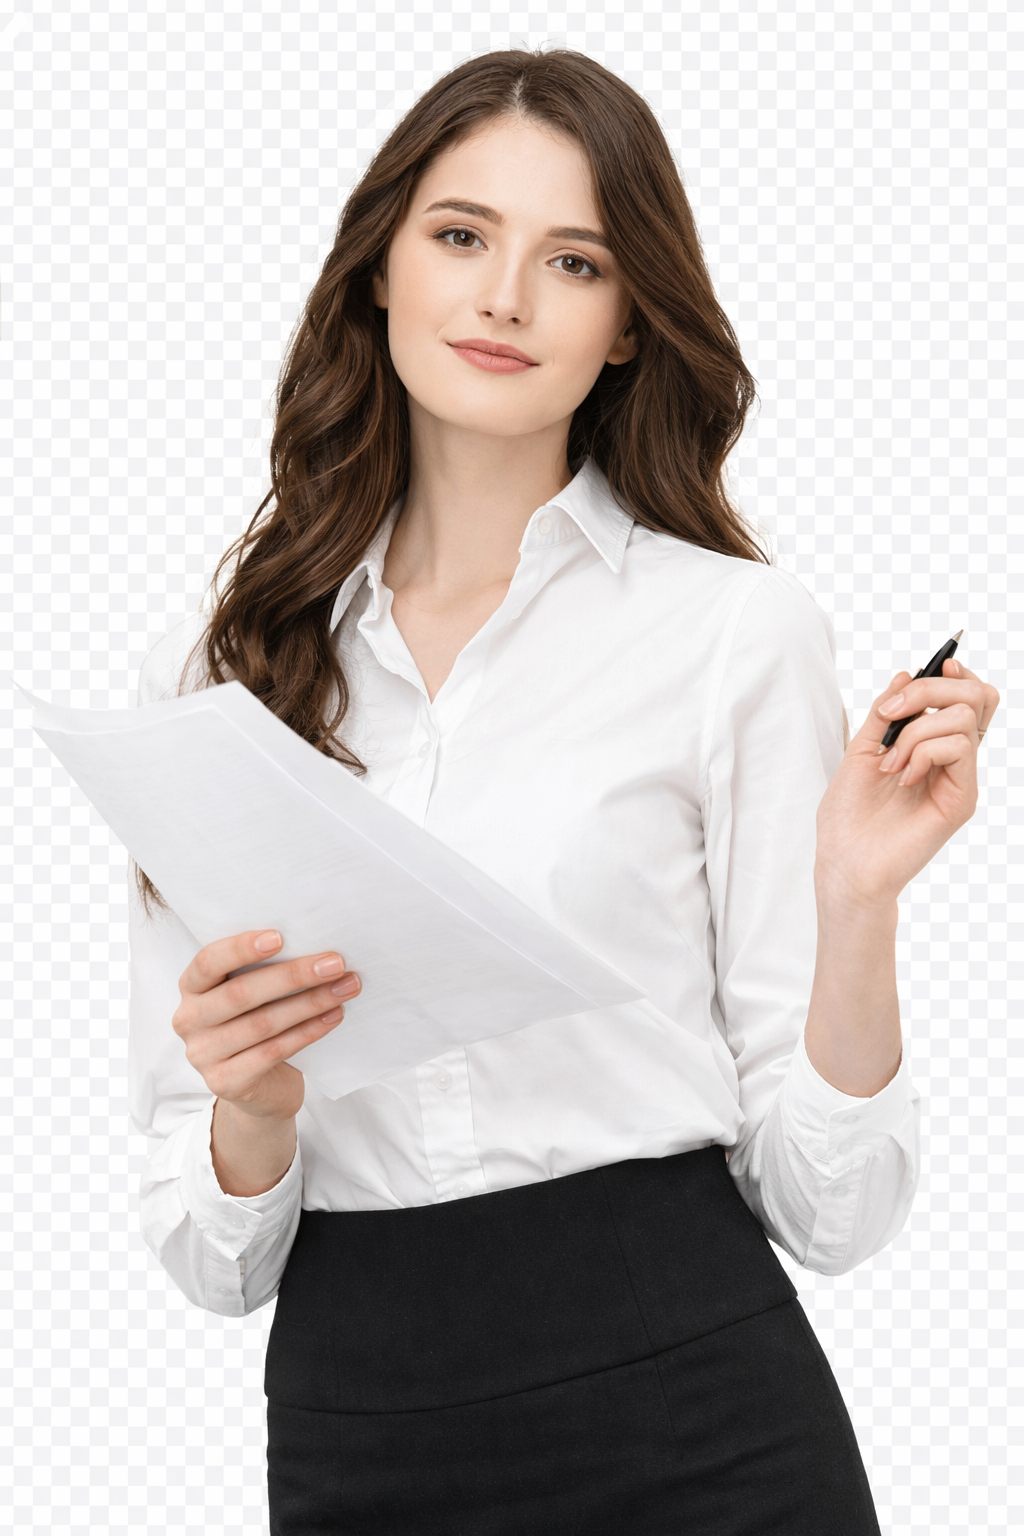
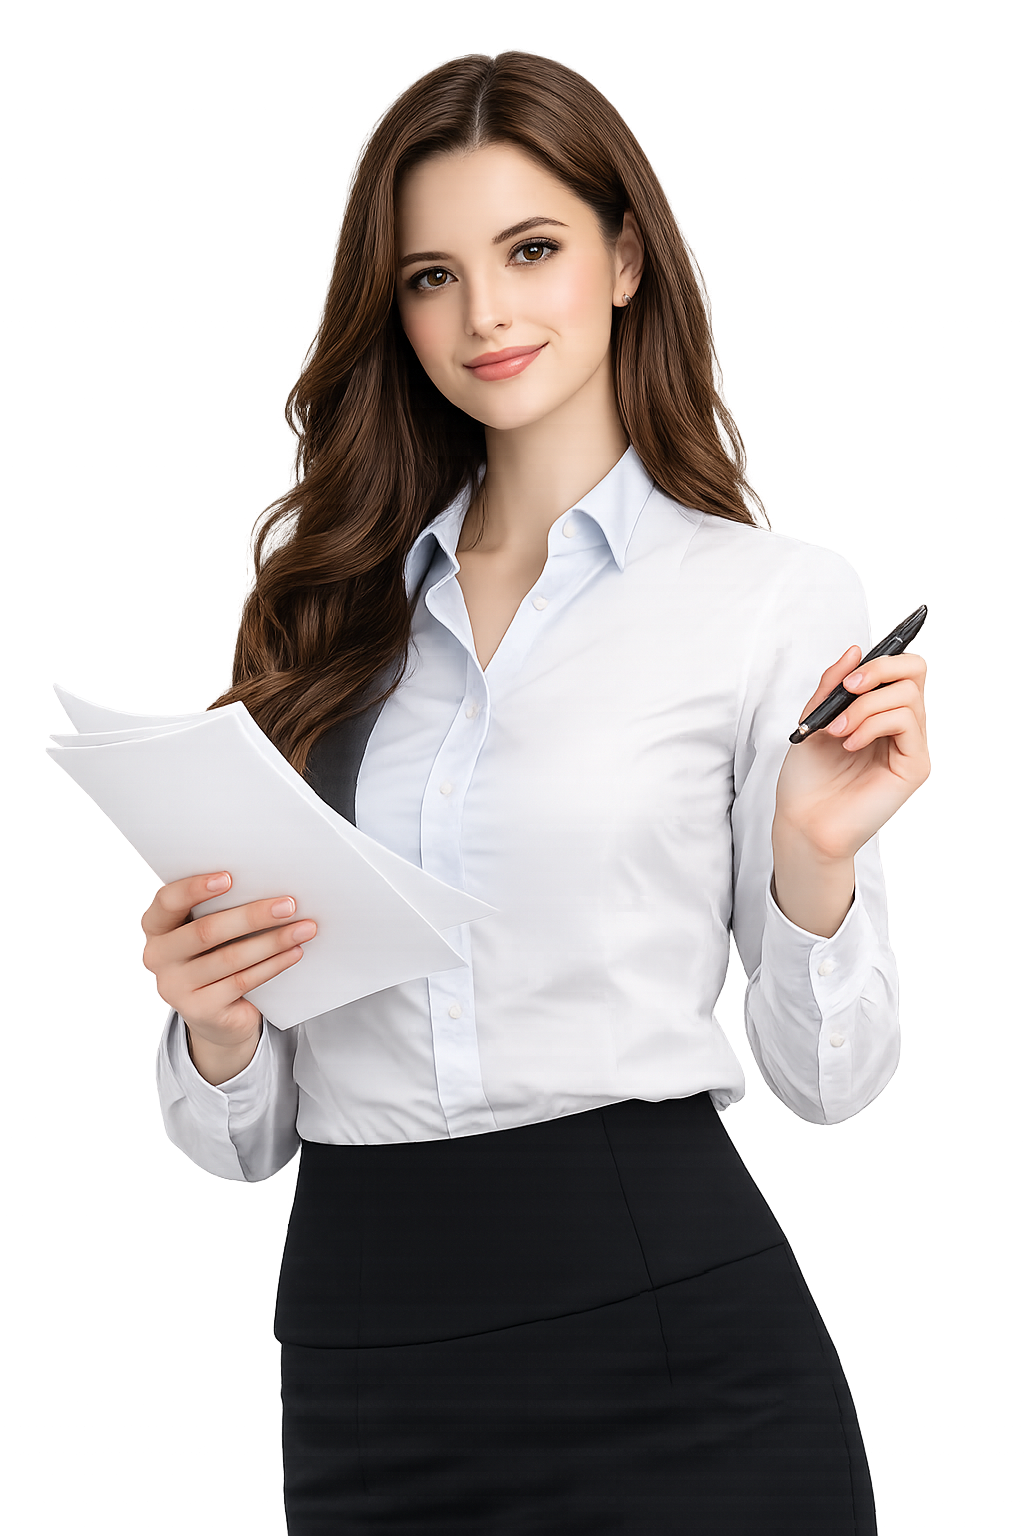
update

Changed region(s): [[0.0938, 0.375, 1.0, 1.0], [0.1562, 0.0312, 0.75, 0.5625], [0.0312, 0.4688, 0.0625, 0.5]]

diff --git a/src/components/layout/header/hero.jsx b/src/components/layout/header/hero.jsx
@@ -1,14 +1,12 @@
 import { Link } from "react-router-dom";
+import bannerOne from "../../../assets/images/h3-banner1.png";
 import bannerTwo from "../../../assets/images/h3-banner2.png";
 import shapeOne from "../../../assets/images/h3-shape1.png";
-
-const leftBannerSrc =
-  "https://demo.bravisthemes.com/jackcerra/wp-content/uploads/2023/03/h3-banner1.png";
  
 const Hero = () => {
   return (
     <section className="hero">
-      <img className="hero-person hero-person-left" src={leftBannerSrc} alt="Consultant portrait" />
+      <img className="hero-person hero-person-left" src={bannerOne} alt="Consultant portrait" />
       <img className="hero-person hero-person-right" src={bannerTwo} alt="Business expert" />
       <img className="hero-arc hero-arc-left" src={shapeOne} alt="" />
       <img className="hero-arc hero-arc-right" src={shapeOne} alt="" />

diff --git a/src/pages/service-page.jsx b/src/pages/service-page.jsx
@@ -78,10 +78,6 @@ const ServicePage = () => {
   const [slideIndex, setSlideIndex] = useState(0);
   const [cardsPerView, setCardsPerView] = useState(3);
   const revealedService = hoveredService || selectedService;
-  const resetServiceSelection = () => {
-    setHoveredService("");
-    setSelectedService("");
-  };
 
   useEffect(() => {
     const updateCardsPerView = () => {

diff --git a/src/components/layout/header/header.css b/src/components/layout/header/header.css
@@ -536,6 +536,7 @@
 .hero-person-left {
   left: clamp(-10px, -1vw, 0px);
   animation-delay: 0.18s;
+  mix-blend-mode: darken;
 }
  
 .hero-person-right {
